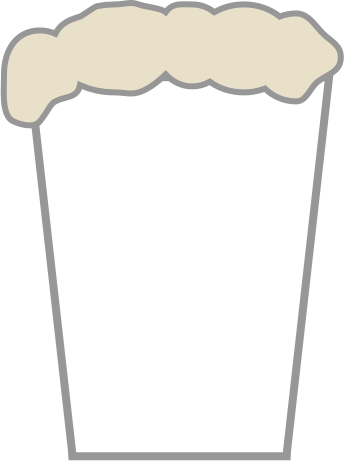
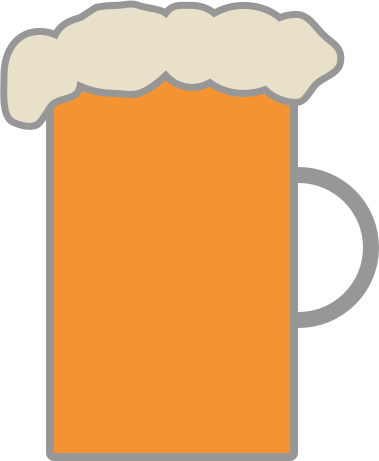
Display pint image on user view.

diff --git a/src/components/Keg.jsx b/src/components/Keg.jsx
@@ -50,6 +50,8 @@ function Keg(props) {
     }
     .pints-left {
       position: absolute;
+      top: 58%;
+      right: 2%;
     }
   `}</style>;
   if (props.currentRouterPath === '/admin') {
@@ -82,9 +84,6 @@ function Keg(props) {
         <div className="keg-info">
           <div className="align-text">
             <h2 className="beer-name">{props.name}</h2>
-            <div className="pints-left">
-              <PintsRemaining/>
-            </div>
             <h3 className="abv">{props.type}</h3>
           </div>
           <div className="align-text">
@@ -94,6 +93,9 @@ function Keg(props) {
           <h4>ABV: {props.abv} | Price: ${props.price}</h4>
           <div className="image-container">
             <img className="brewers" src={props.url}/>
+          </div>
+          <div className="pints-left">
+            <PintsRemaining/>
           </div>
         </div>
       </div>

diff --git a/src/components/PintsRemaining.jsx b/src/components/PintsRemaining.jsx
@@ -1,5 +1,6 @@
 import React from 'react';
 import PropTypes from 'prop-types';
+import pint from '../assets/images/pint.png';
 
 function PintsRemaining(props) {
   return (
@@ -20,10 +21,12 @@ function PintsRemaining(props) {
           background-color: #BF583F;
           float: left;
         }
+        .image-size {
+          height: 100px;
+          width: 60px;
+        }
       `}</style>
-      <div className="total-beer">
-        <div className="remaining-beer"></div>
-      </div>
+    <img className="image-size" src={pint}/>
     </div>
   );
 }
